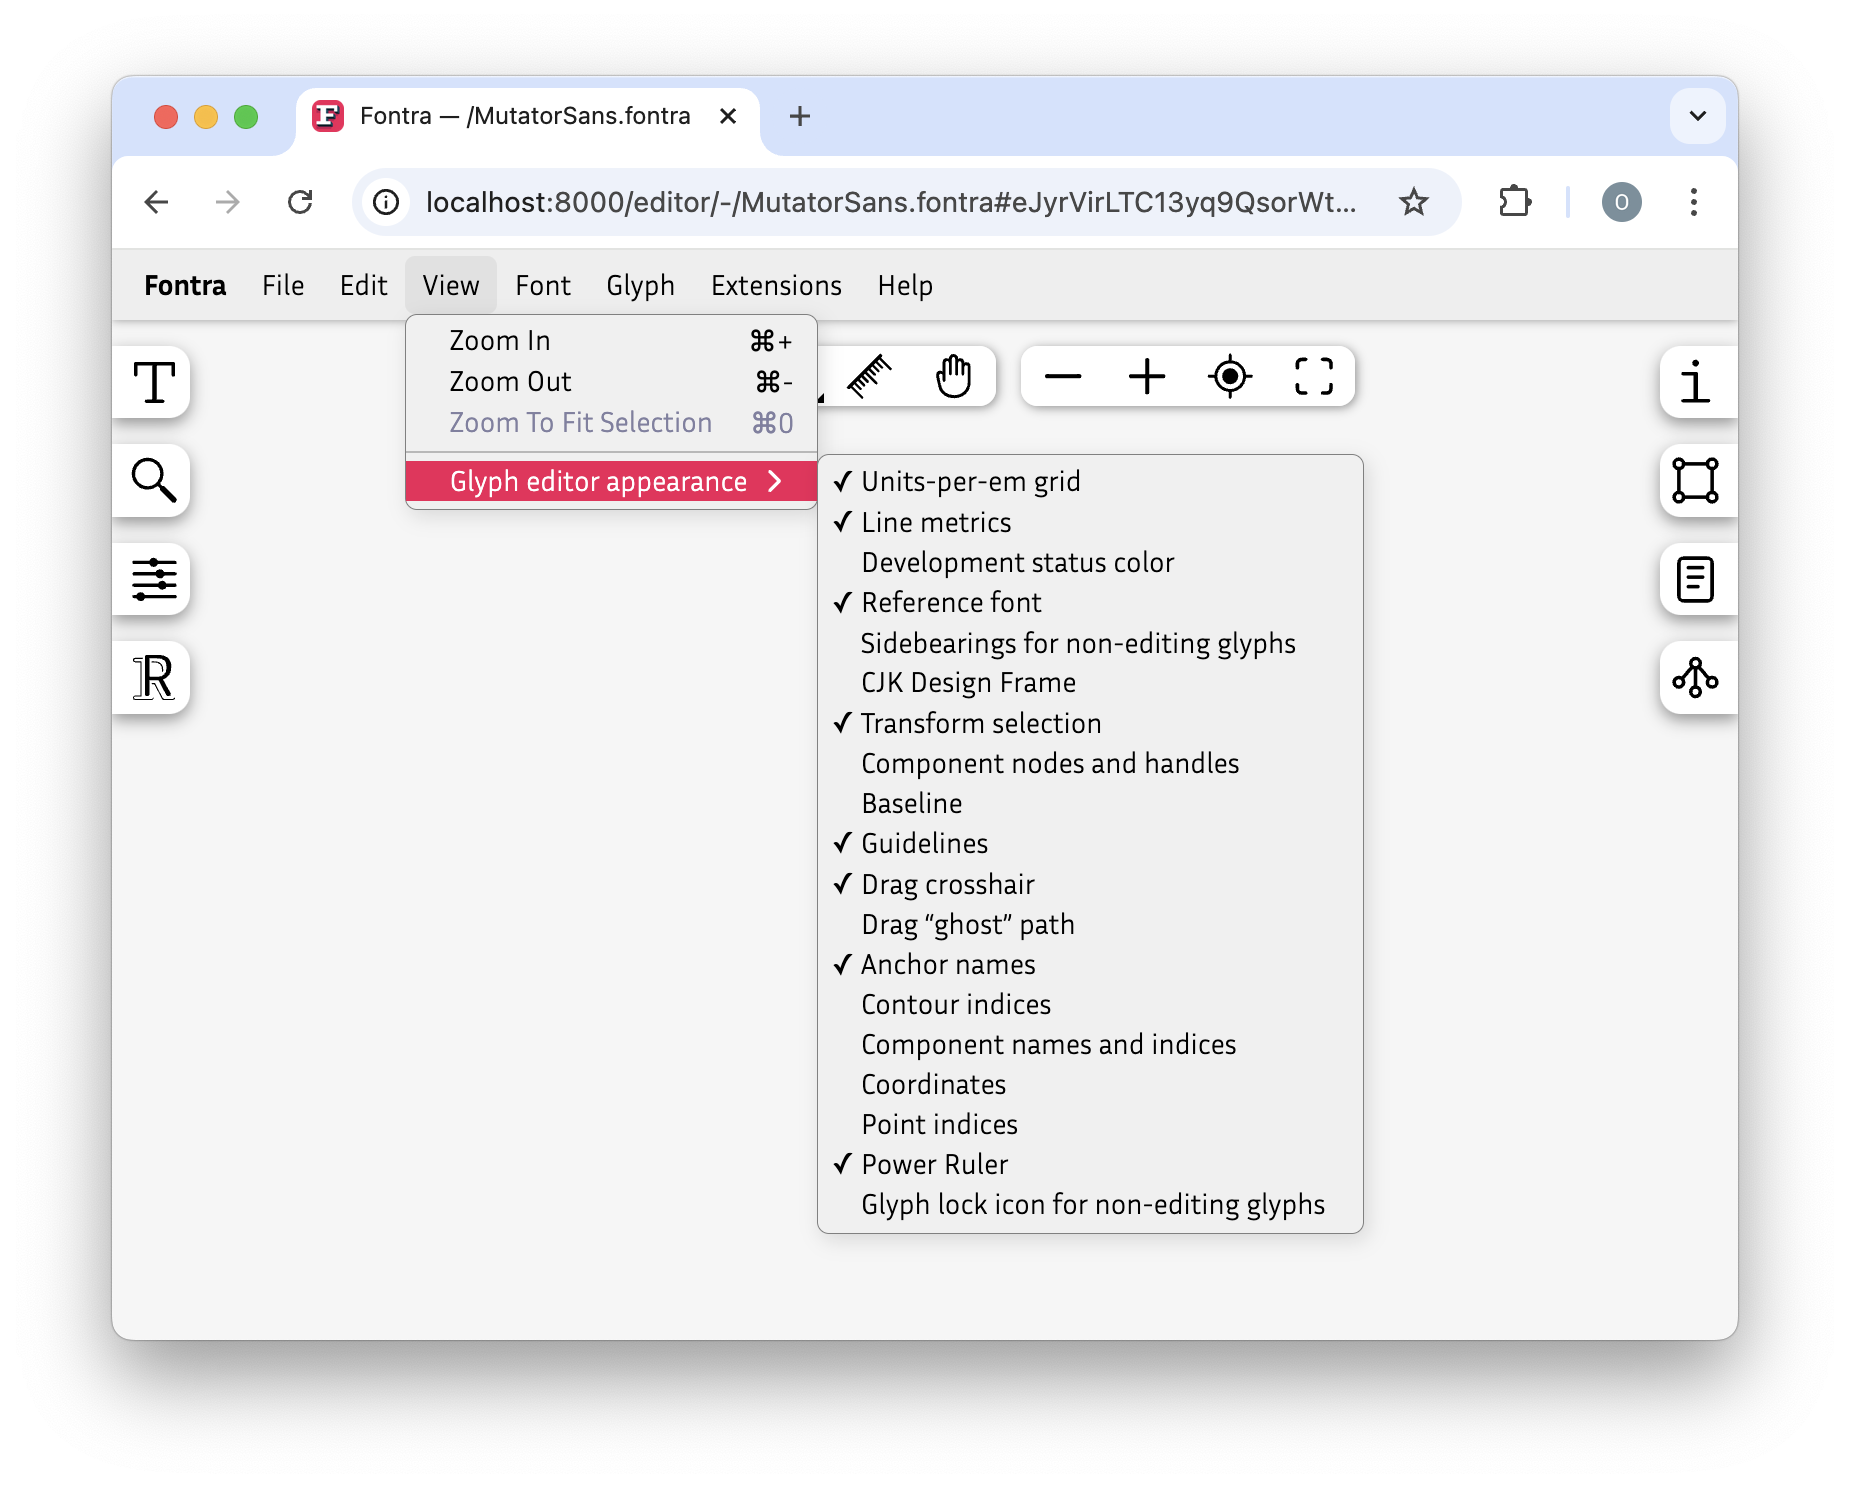
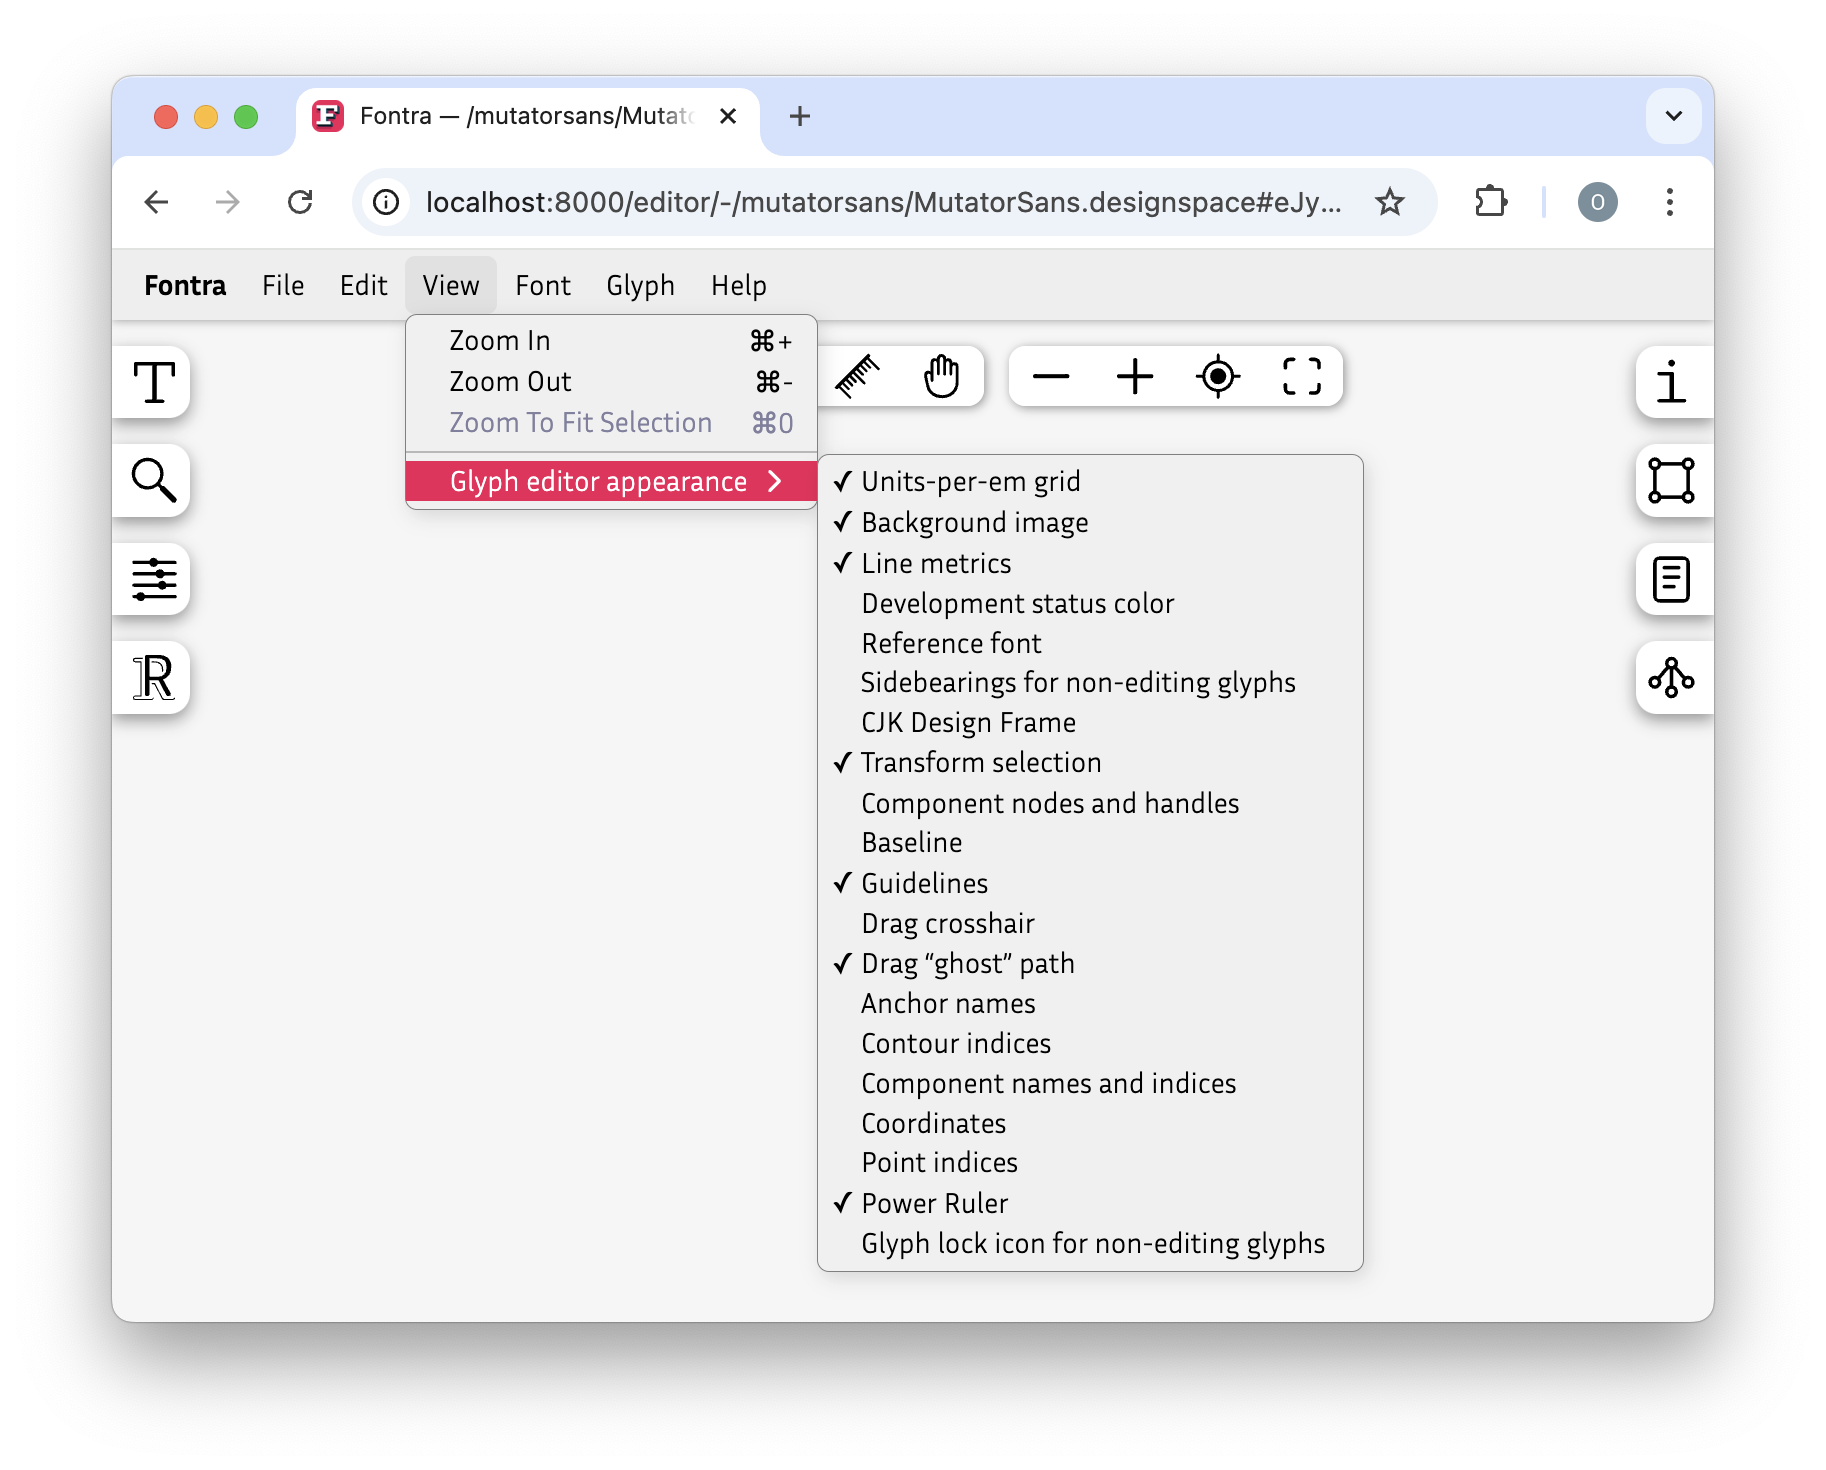
Add 'Background image' to glyph editor appearance

diff --git a/_reference/menu/view/glyph-editor-appearance.md b/_reference/menu/view/glyph-editor-appearance.md
@@ -41,6 +41,10 @@ Actions
 <td>the Units-per-em grid, when zoomed in</td>
 </tr>
 <tr>
+<td>Background image</td>
+<td>show image in the background (if present for a glyph)</td>
+</tr>
+<tr>
 <td>Line metrics</td>
 <td>glyph bounding box, vertical metrics and overshoots</td>
 </tr>
